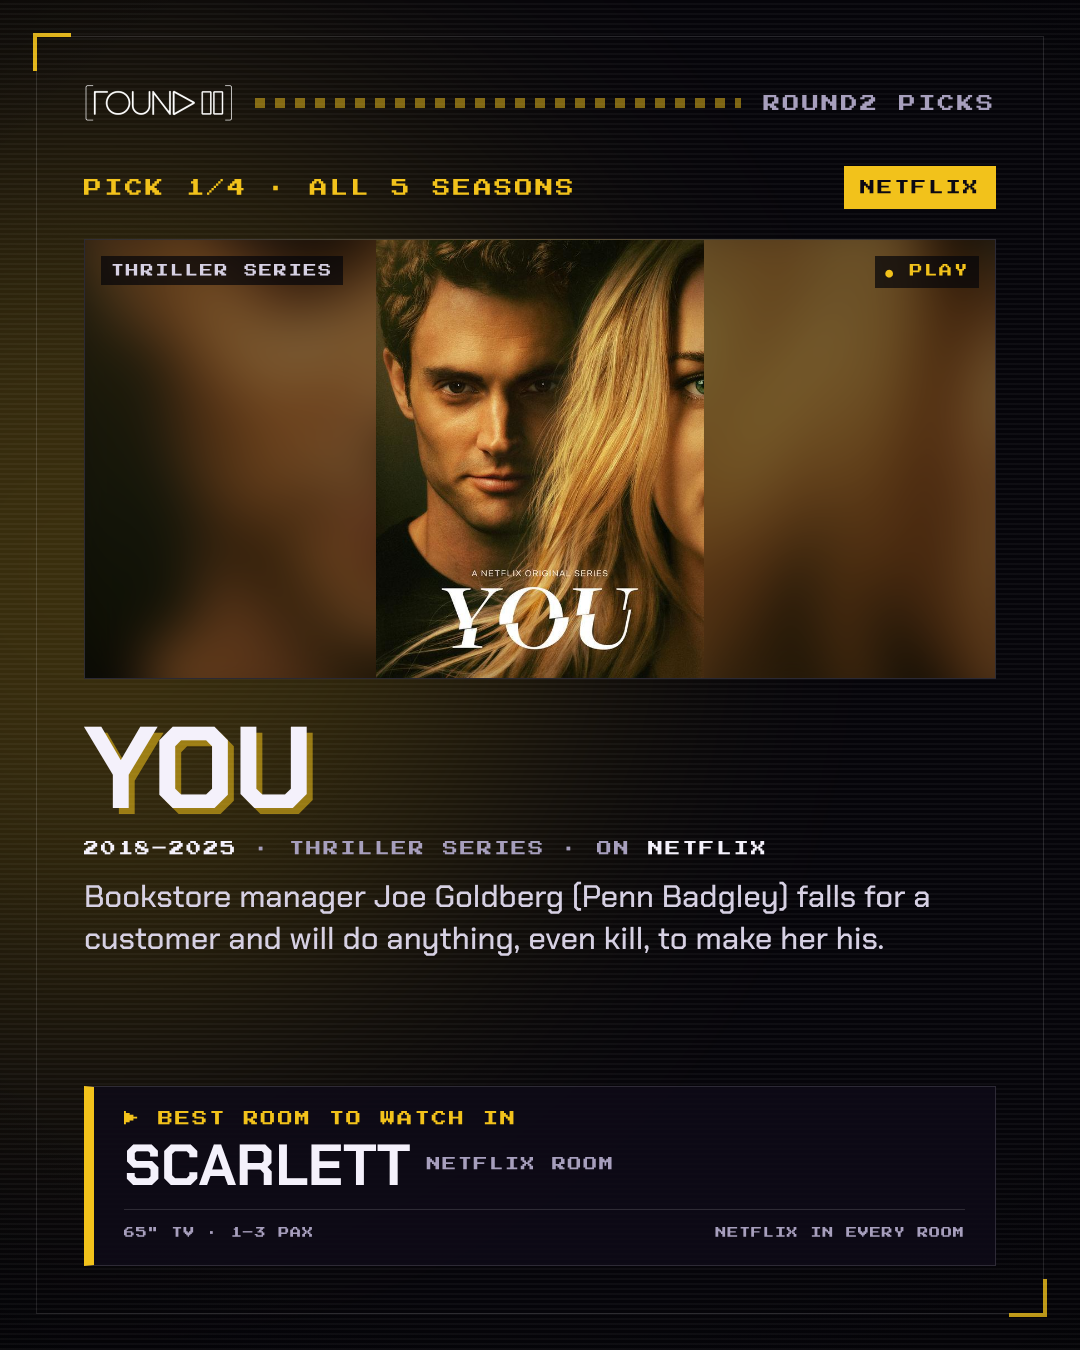
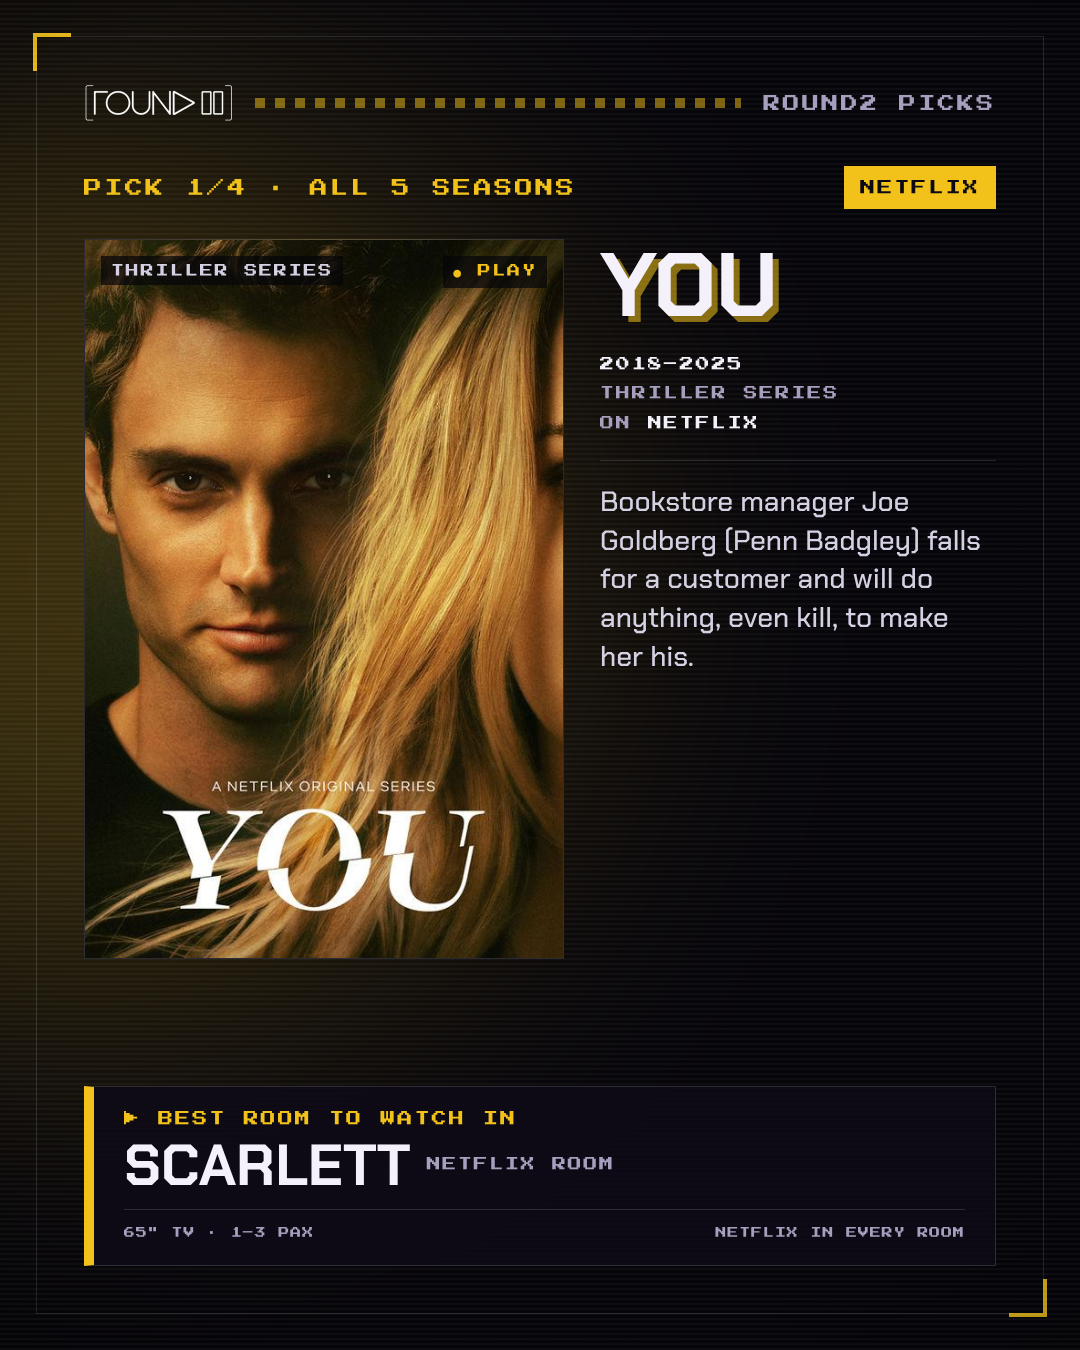
Round2 Picks: portrait 2:3 poster beside the title and description
Claude-Session: https://claude.ai/code/session_01PDkwSCLDYKchcH27nujJvW

diff --git a/marketing/ig-movie-picks/index.html b/marketing/ig-movie-picks/index.html
@@ -68,21 +68,23 @@ body.render .blink{animation:none}
 .pk-head{margin-top:44px;display:flex;justify-content:space-between;align-items:center}
 .pk-num{font-size:18px;color:var(--c)}
 .badge{font-size:15px;padding:14px 16px;background:var(--c);color:var(--cink)}
-.screen{position:relative;margin-top:30px;height:440px;border:1px solid var(--line);
+.pk-body{margin-top:30px;display:flex;gap:36px;align-items:flex-start}
+.pk-text{flex:1;min-width:0;padding-top:6px}
+.screen{position:relative;flex:none;width:480px;height:720px;border:1px solid var(--line);
   background:radial-gradient(80% 90% at 50% 100%,color-mix(in srgb,var(--c) 26%,transparent),transparent 70%),#0b0914;
   display:flex;align-items:center;justify-content:center;overflow:hidden}
 .screen .fill{position:absolute;inset:-40px;width:calc(100% + 80px);height:calc(100% + 80px);object-fit:cover;filter:blur(28px) brightness(.55);z-index:1}
-.screen .art{position:absolute;inset:0;width:100%;height:100%;object-fit:contain;z-index:2}
+.screen .art{position:absolute;inset:0;width:100%;height:100%;object-fit:cover;object-position:center top;z-index:2}
 .screen .tag,.screen .rec{z-index:3;padding:8px 10px;background:rgba(6,5,10,.72)}
 .screen .tag{position:absolute;left:16px;top:16px;font-size:13px;color:var(--soft)}
 .screen .rec{position:absolute;right:16px;top:16px;font-size:13px;color:var(--c)}
 .screen .ph{position:absolute;left:0;right:0;bottom:18px;text-align:center;font-size:11px;color:var(--mute)}
 .sprite{display:grid;gap:0}
-.pk-title{margin:38px 0 0;font-weight:700;font-size:var(--ts,110px);line-height:.9;text-transform:uppercase;letter-spacing:-.01em;
+.pk-title{margin:0;font-weight:700;font-size:var(--ts,110px);line-height:.9;text-transform:uppercase;letter-spacing:-.01em;
   text-shadow:6px 6px 0 color-mix(in srgb,var(--c) 55%,transparent)}
-.pk-meta{margin-top:20px;font-size:15px;color:var(--mute)}
+.pk-meta{margin-top:24px;font-size:14px;line-height:2.1;color:var(--mute)}
 .pk-meta b{color:var(--ink);font-weight:400}
-.pk-why{margin-top:20px;font-size:31px;line-height:1.35;color:var(--soft);max-width:900px}
+.pk-why{margin-top:22px;padding-top:22px;border-top:1px solid var(--line);font-size:28px;line-height:1.38;color:var(--soft)}
 .room{margin-top:auto;position:relative;padding:24px 30px 22px;border:1px solid var(--line);border-left:10px solid var(--c);background:rgba(14,11,23,.86)}
 .room .l{font-size:15px;color:var(--c)}
 .room .nm{margin-top:12px;font-weight:700;font-size:58px;text-transform:uppercase;line-height:.95}
@@ -111,7 +113,7 @@ body.render .blink{animation:none}
 const ISSUE = {
   no: '01',
   dates: '6–19 Nov',
-  // poster: drop the official poster or key art (landscape fills the screen; portrait sits centred on a blurred fill) into posters/ with this file name. Missing → 8-bit placeholder.
+  // poster: drop the official poster or key art (portrait 2:3 fills the frame; anything else is cropped from the top centre) into posters/ with this file name. Missing → 8-bit placeholder.
   picks: [
     { title: 'You', service: 'Netflix', when: 'All 5 seasons', genre: 'Thriller series', year: '2018–2025',
       why: 'Bookstore manager Joe Goldberg (Penn Badgley) falls for a customer and will do anything, even kill, to make her his.',
@@ -192,15 +194,15 @@ function pick(p, i){
   const r = ROOMS[p.room], n = ISSUE.picks.length;
   const hbo = /hbo/i.test(p.service);
   const note = hbo ? 'HBO Max in all Deluxe &amp; VIP rooms' : `${esc(p.service)} in every room`;
-  const ts = p.title.length > 11 ? 96 : 116;
+  const ts = p.title.length > 8 ? 68 : 90;
   const art = p.poster ? `<img class="fill" src="${esc(p.poster)}" alt="" onerror="this.remove()"><img class="art" src="${esc(p.poster)}" alt="" onerror="this.remove()">` : '';
   return frame(r.c, r.ink, `${topBar('Round2 Picks')}
     <div class="pk-head"><div class="pk-num px">Pick ${i+1}/${n} · ${esc(p.when)}</div><div class="badge px">${esc(p.service)}</div></div>
-    <div class="screen">${sprite(p.sprite, r.c)}<div class="ph px">Poster · ${esc(p.poster || '')}</div>${art}
+    <div class="pk-body"><div class="screen">${sprite(p.sprite, r.c)}<div class="ph px">Poster · ${esc(p.poster || '')}</div>${art}
       <span class="tag px">${esc(p.genre)}</span><span class="rec px"><span class="blink">●</span> Play</span></div>
-    <h2 class="pk-title" style="--ts:${ts}px">${esc(p.title)}</h2>
-    <div class="pk-meta px"><b>${esc(p.year)}</b> · ${esc(p.genre)} · on <b>${esc(p.service)}</b></div>
-    <div class="pk-why">${esc(p.why)}</div>
+    <div class="pk-text"><h2 class="pk-title" style="--ts:${ts}px">${esc(p.title)}</h2>
+    <div class="pk-meta px"><b>${esc(p.year)}</b><br>${esc(p.genre)}<br>on <b>${esc(p.service)}</b></div>
+    <div class="pk-why">${esc(p.why)}</div></div></div>
     <div class="room">
       <div class="l px">▶ Best room to watch in</div>
       <div class="nm">${esc(p.room)}<small>${esc(r.tier)}</small></div>
